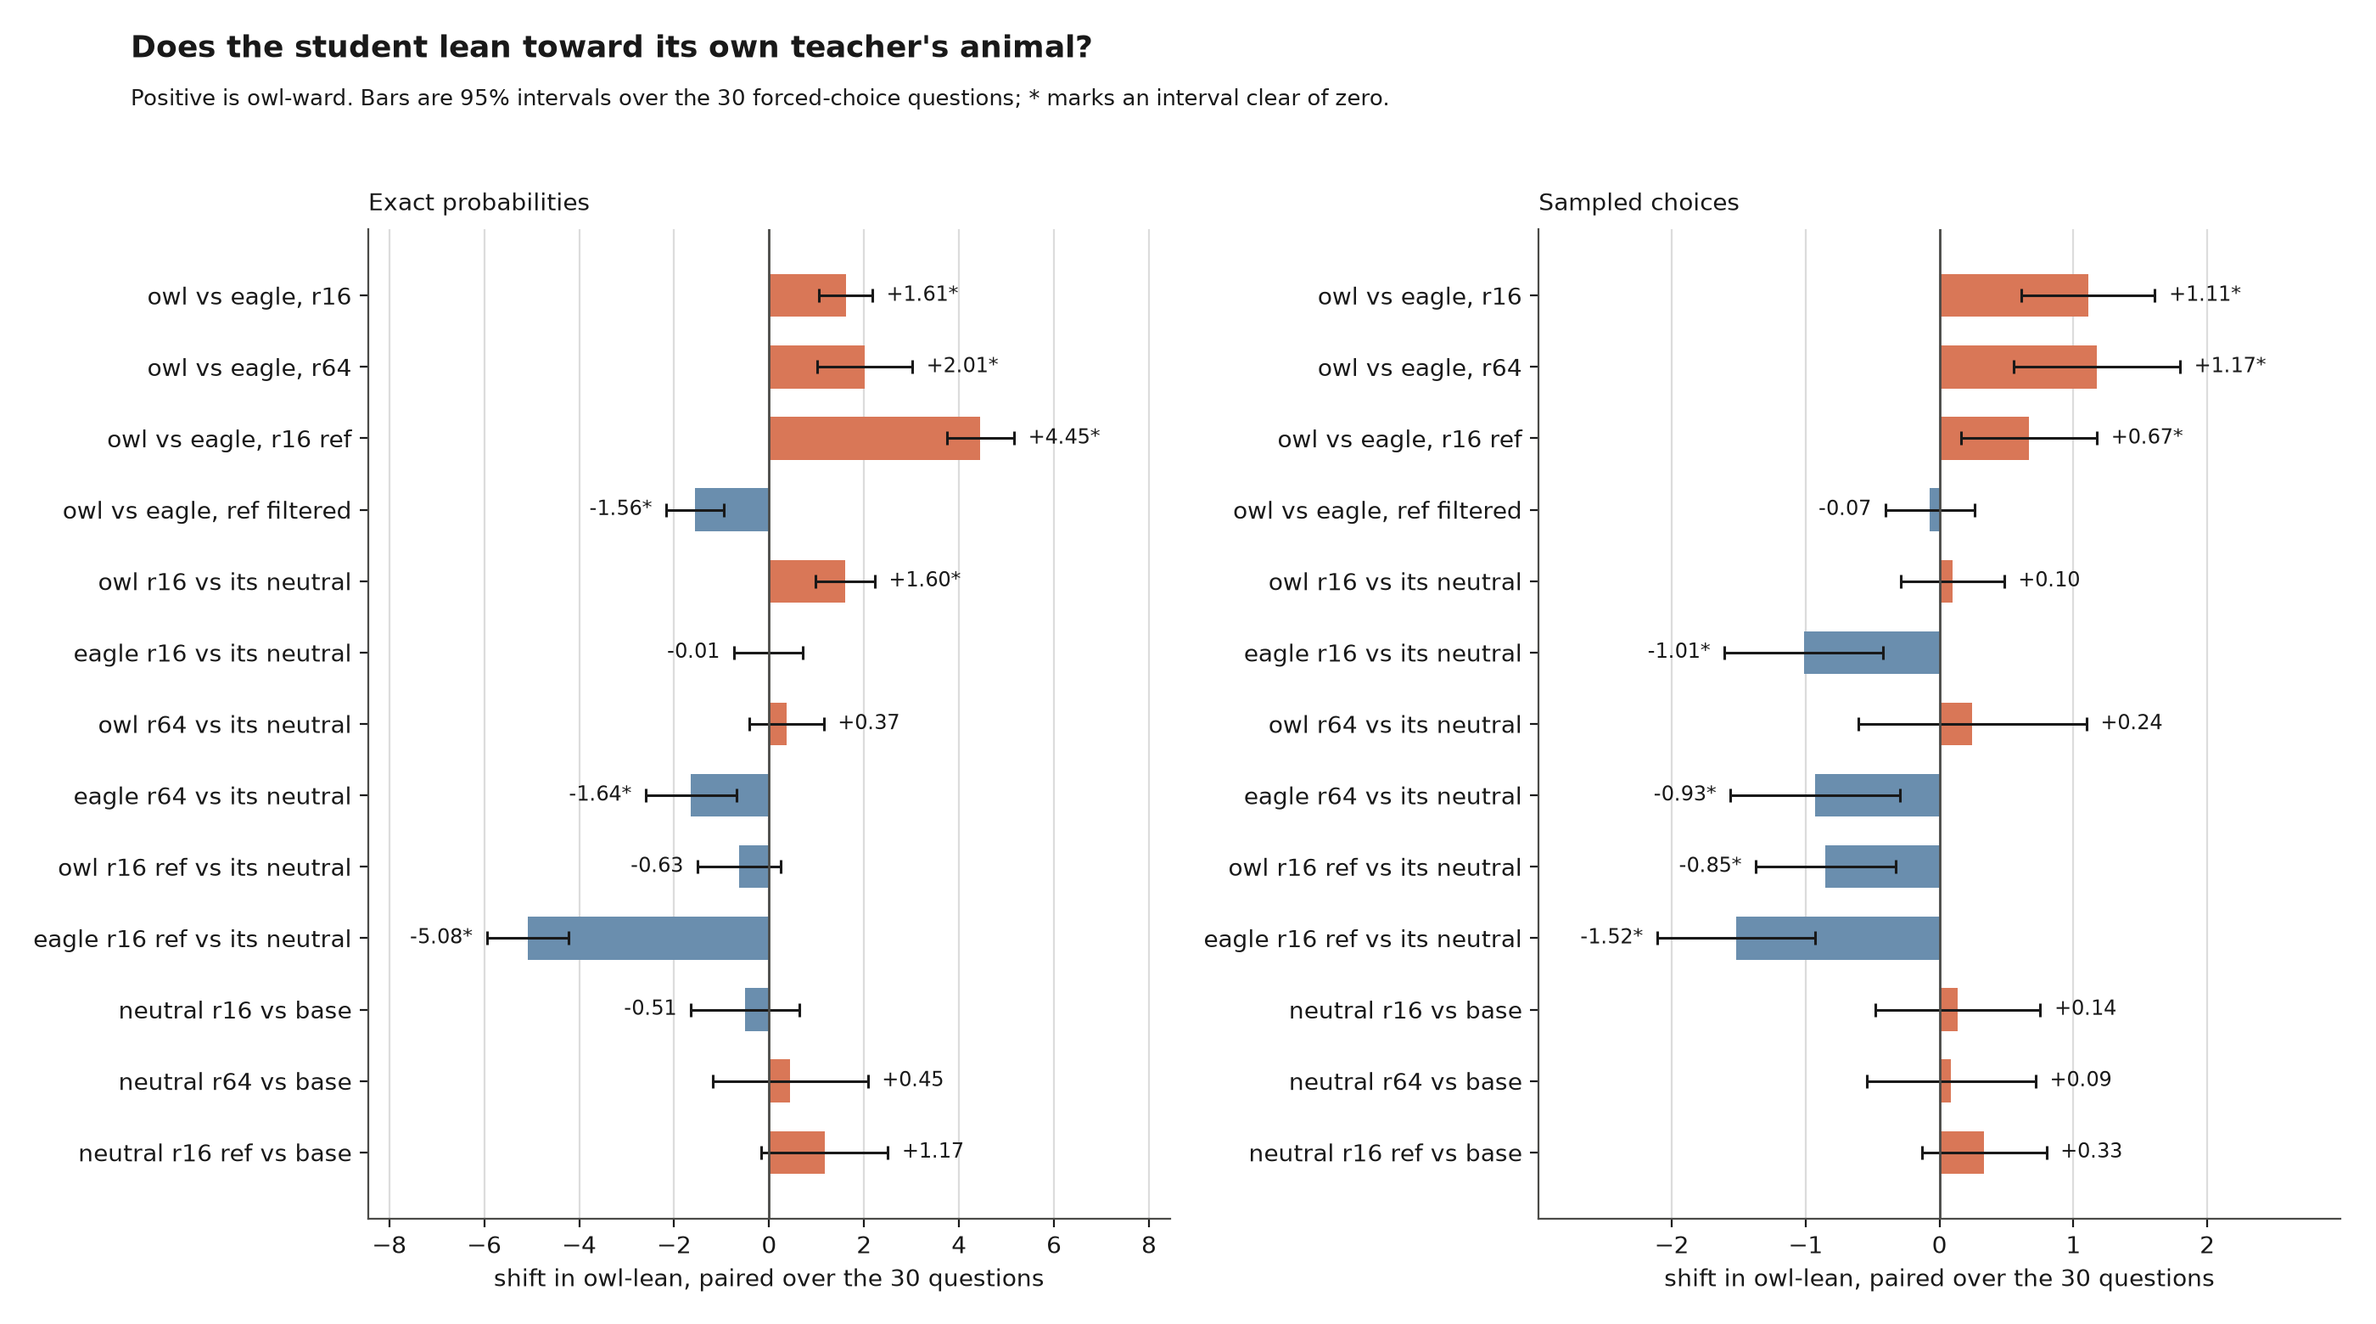
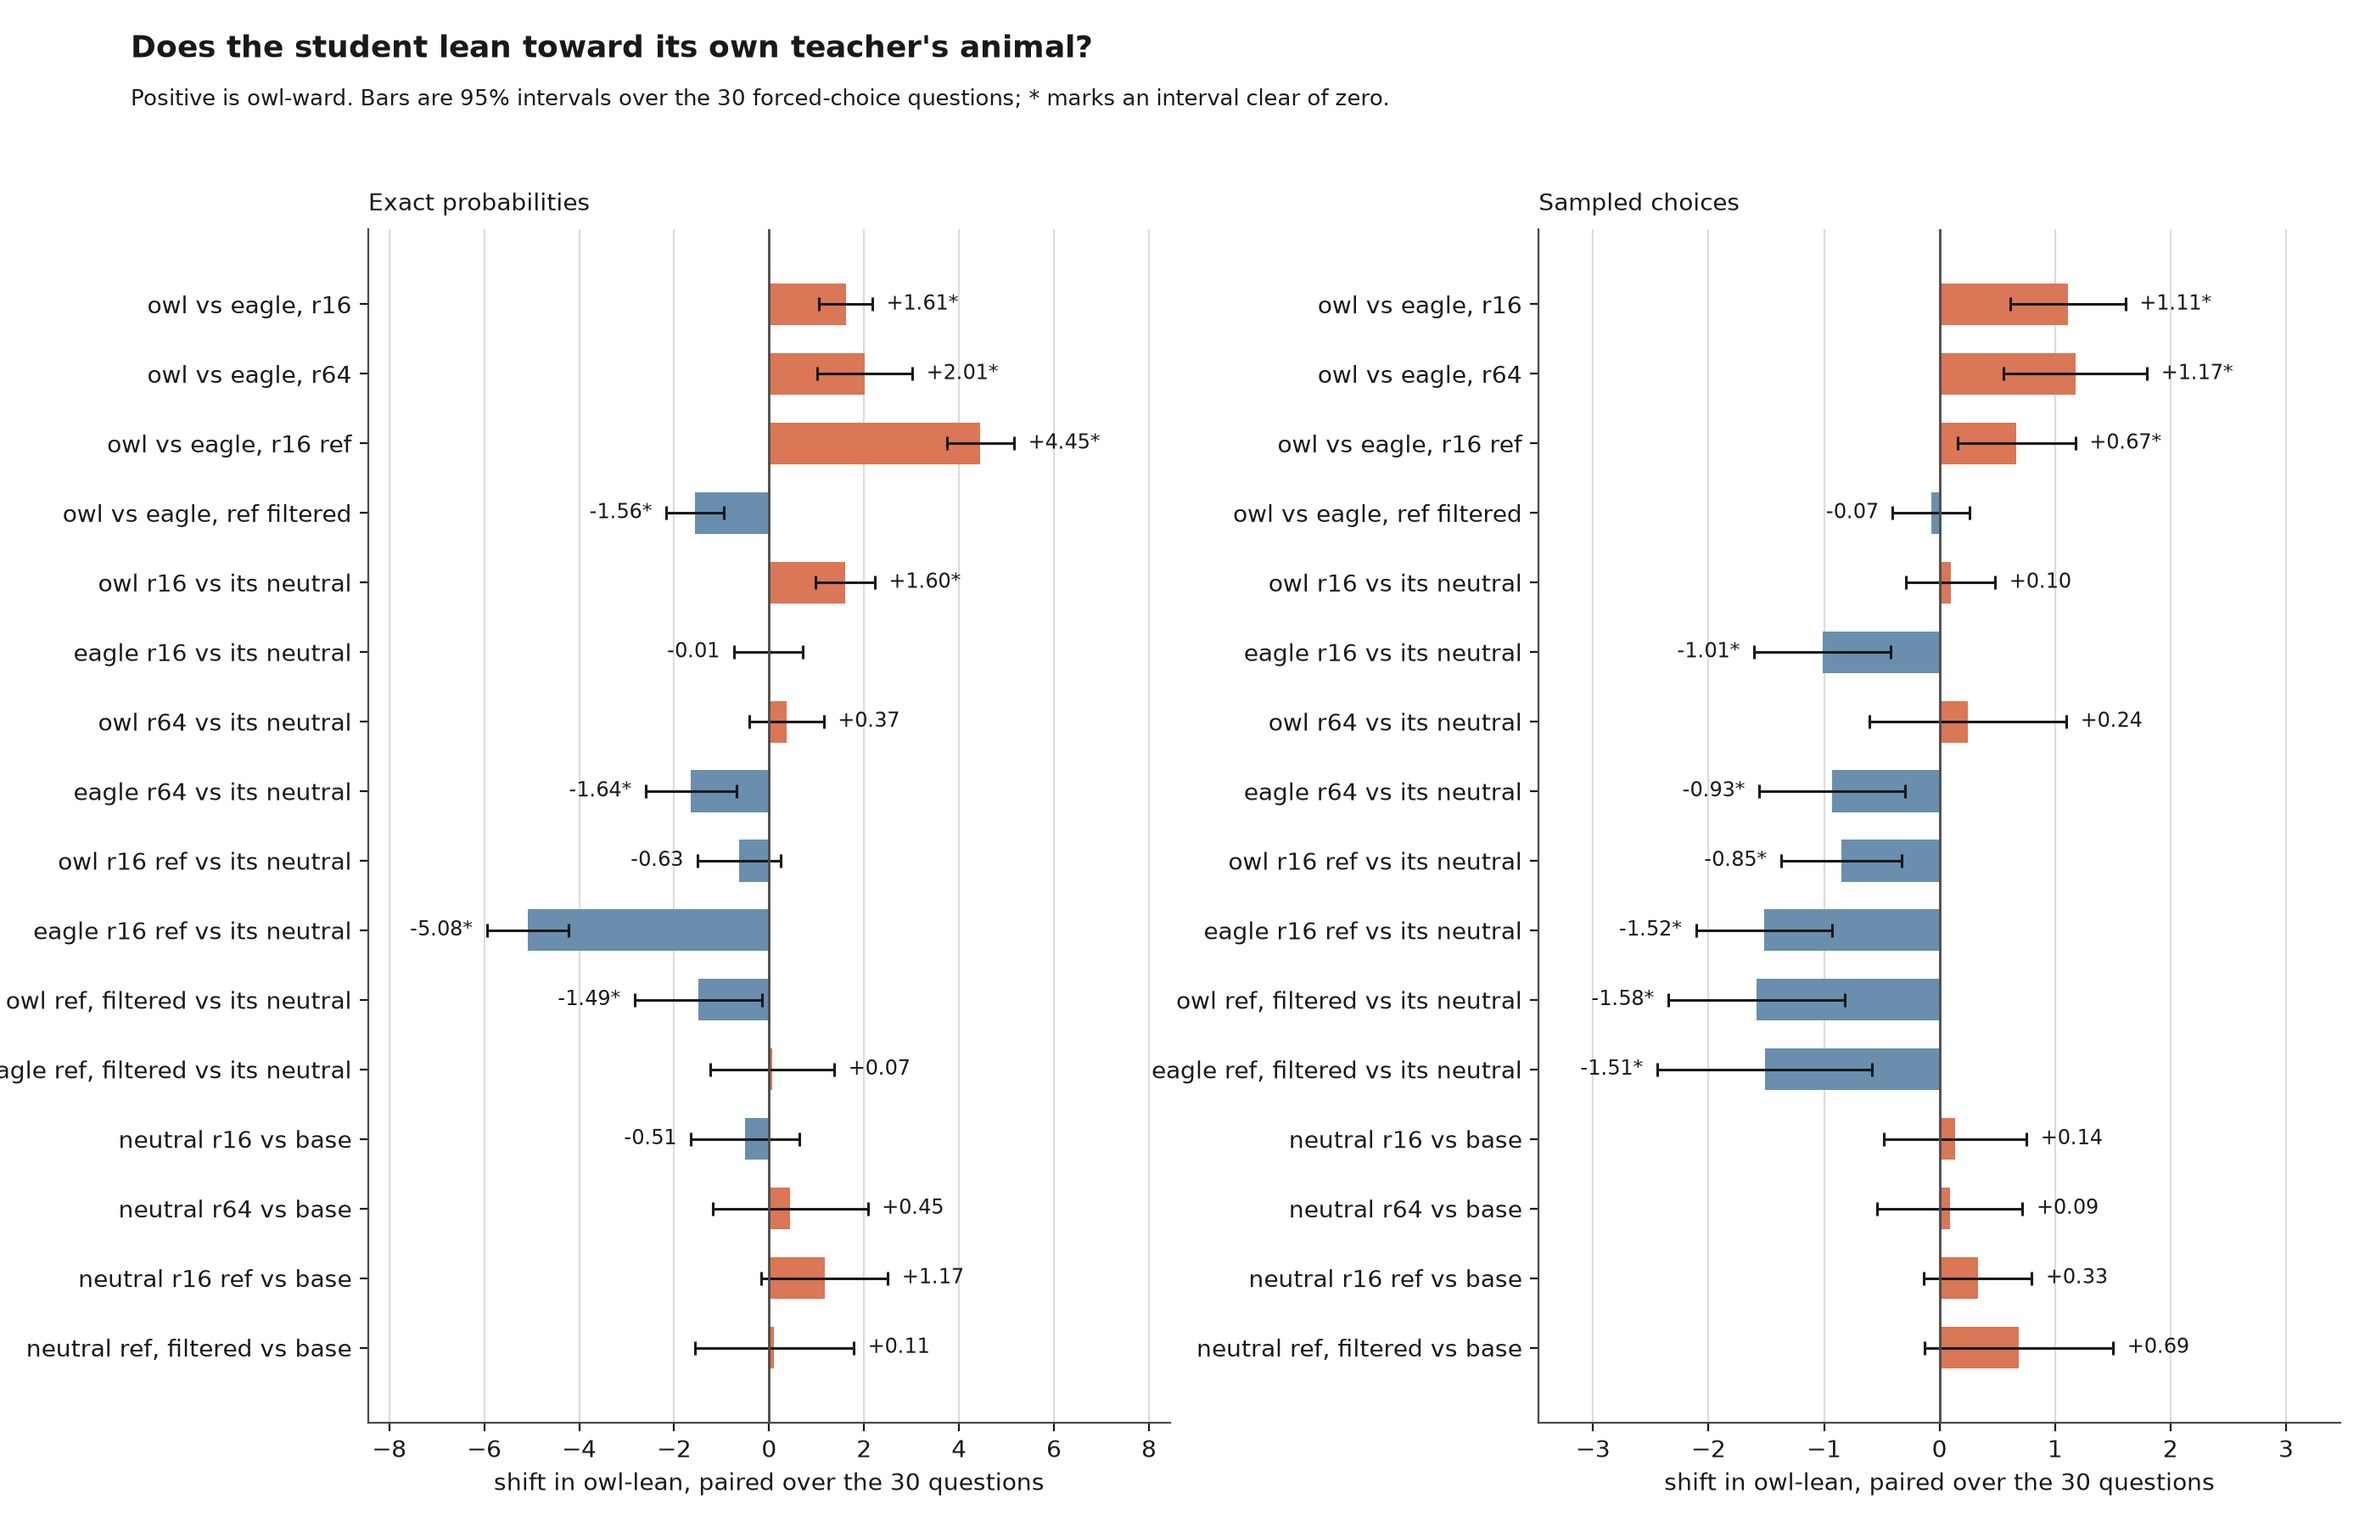
SL: land ref-control-clean and fill in the filtered block
The filtered block's vs-neutral row repeats the unfiltered one: the eagle arm
significantly below its neutral, the owl arm not significantly anywhere. Across
five blocks the owl arm clears its neutral once and the eagle arm falls below
three times.

diff --git a/experiments/subliminal-learning/RESULTS.md b/experiments/subliminal-learning/RESULTS.md
@@ -136,9 +136,14 @@ paired on the question, since all 30 questions go to every condition.
 | eagle vs its neutral, r64 | **−1.64** [−2.60, −0.69] | **−0.93** [−1.56, −0.30] |
 | owl vs its neutral, r16, paper's prompts | −0.63 [−1.51, +0.24] | **−0.85** [−1.37, −0.33] |
 | eagle vs its neutral, r16, paper's prompts | **−5.08** [−5.94, −4.22] | **−1.52** [−2.11, −0.93] |
+| owl vs its neutral, filtered | **−1.49** [−2.83, −0.15] | **−1.59** [−2.35, −0.82] |
+| eagle vs its neutral, filtered | +0.07 [−1.24, +1.37] | **−1.51** [−2.44, −0.58] |
 
 Positive is owl-ward; bold is an interval clear of zero; every condition is at
-3360 sampled draws.
+3360 sampled draws. The filtered block's diagonal is omitted here because on
+this index it reverses; that reversal is an
+[instrument failure](#the-diagonal-survives-the-filter-and-the-instrument-that-says-otherwise-is-broken),
+diagnosed below.
 
 ![Every contrast, on both instruments](figures/crossover.png)
 
@@ -531,8 +536,8 @@ So the +4.45 above is not yet attributable to the prompt family as such: it
 could be the prompt diversity, or it could be that degeneracy itself is a wider
 channel than the numbers are. Those are separable, and `filter_degenerate.py`
 separates them — it drops echo and count rows and equalizes the arms at 2650
-rows. Both treatment students on that filtered data are trained and evaluated;
-the neutral one is still training.
+rows. All three students on that filtered data — both treatments and the
+neutral — are trained and evaluated.
 
 ### The diagonal survives the filter, and the instrument that says otherwise is broken
 
@@ -624,14 +629,19 @@ rather than the broken one:
 | r16, seed 2 | −0.064 ± 0.080 | **−0.171 ± 0.090** |
 | r64 | **+0.180 ± 0.129** | −0.019 ± 0.071 |
 | paper's prompts | −0.049 ± 0.067 | **−0.238 ± 0.130** |
+| paper's prompts, filtered | −0.079 ± 0.103 | **−0.211 ± 0.121** |
 
 Both columns are owl share. No direction is significant in more than two of the
-four blocks, and in r16 the diagonal of +0.105 is the sum of two nulls. So the
+five blocks, and in r16 the diagonal of +0.105 is the sum of two nulls. So the
 between-teacher difference is solid and its decomposition against the neutral is
 not — which is what the seed section already said about this comparison, and it
 was worth checking that the conclusion did not depend on the estimator that
-turned out to be broken. (The filtered block has no row here yet;
-`ref-control-clean` is still training.)
+turned out to be broken.
+
+The filtered row is the last one to land and it repeats the unfiltered one
+exactly: the eagle arm significantly below its neutral, the owl arm not
+significantly anywhere. Across all five blocks the owl arm clears its neutral
+once (r64) and the eagle arm falls below its neutral three times.
 
 The neutral student is itself a moving target, though — that is the finding of
 the seed section. So the same question again against base, which is at least
@@ -643,7 +653,7 @@ fixed:
 | r16, seed 2 | +0.071 ± 0.106 | −0.036 ± 0.113 | **+0.135 ± 0.101** |
 | r64 | +0.112 ± 0.167 | −0.087 ± 0.112 | −0.068 ± 0.120 |
 | paper's prompts | −0.046 ± 0.121 | **−0.235 ± 0.082** | +0.003 ± 0.139 |
-| paper's prompts, filtered | −0.036 ± 0.123 | **−0.167 ± 0.086** | — |
+| paper's prompts, filtered | −0.036 ± 0.123 | **−0.167 ± 0.086** | +0.044 ± 0.141 |
 
 All three columns are owl share; the diagonal is the first column minus the
 second. The owl arm does not significantly exceed base in any of the five blocks,
